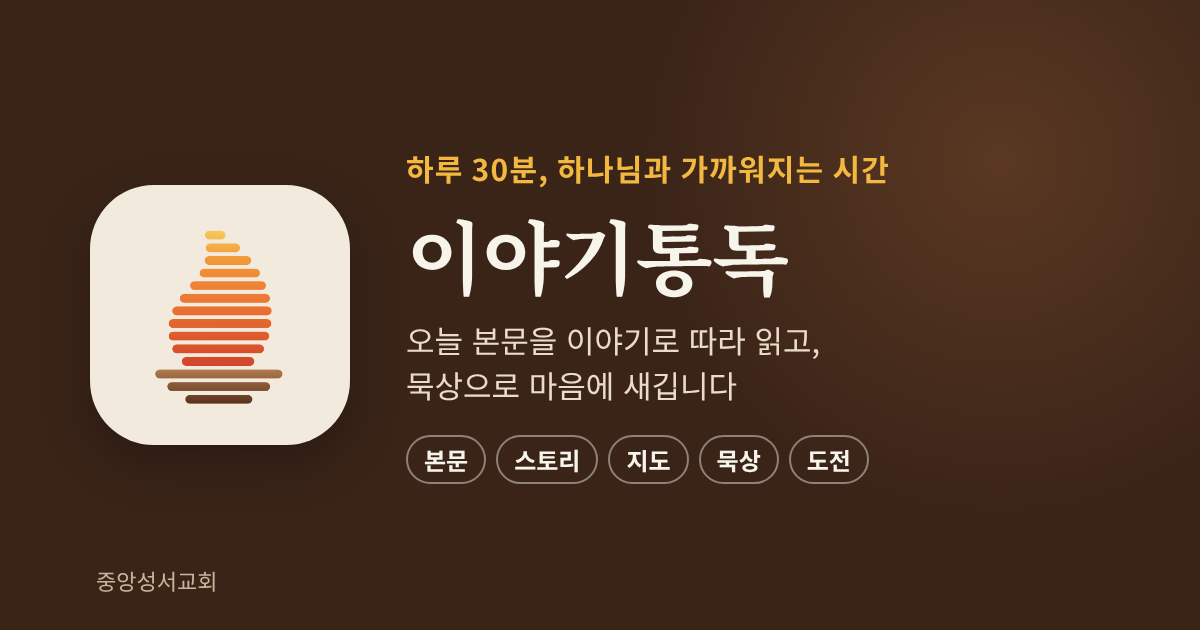
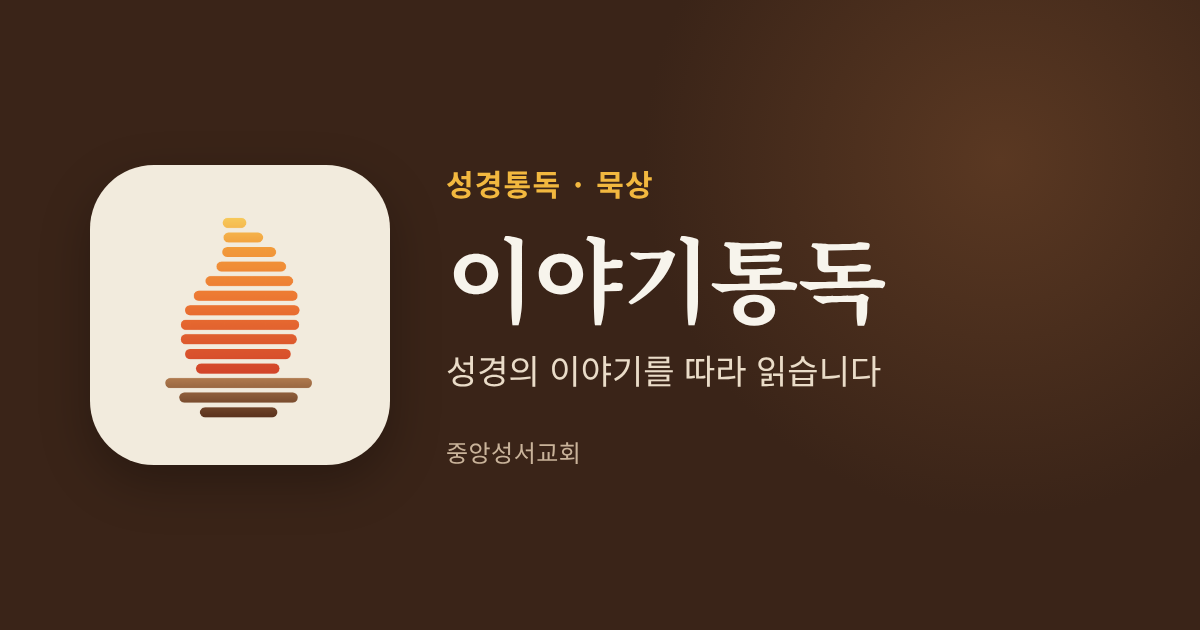
브랜드 정리(GPT 검토 반영): 링크 카드 문구 줄임(30분·기능 나열 뺌) · 링크 설명 글 새로 · 켤 때 화면의 '오늘 통독'을 그날 날짜로 · 32px 이하용 간단한 아이콘(브라우저 탭)
Claude-Session: https://claude.ai/code/session_01JDTz8YqNAERJZBJ94GhQMU

diff --git a/app/og/og.html b/app/og/og.html
@@ -3,17 +3,16 @@ html,body{margin:0}
 body{width:1200px;height:630px;background:#3A2418;position:relative;overflow:hidden;font-family:"Noto Sans CJK KR";color:#F7F4EC}
 .glow{position:absolute;right:-160px;top:-200px;width:720px;height:720px;border-radius:50%;background:radial-gradient(circle,#5A3822 0%,#3A2418 70%)}
 .wrap{position:absolute;inset:0;display:flex;align-items:center;gap:56px;padding:0 90px}
-.book{width:260px;height:260px;flex:none;border-radius:64px;box-shadow:0 18px 50px rgba(0,0,0,.28)}
+.book{width:300px;height:300px;flex:none;border-radius:64px;box-shadow:0 18px 50px rgba(0,0,0,.28)}
 .t{display:grid;gap:22px}
 .kick{font-size:30px;font-weight:700;color:#F2B83F;letter-spacing:.04em}
-h1{margin:0;font-family:"Noto Serif CJK KR";font-weight:700;font-size:80px;white-space:nowrap;line-height:1.05;letter-spacing:-.01em}
-.sub{font-size:31px;color:#EADCC8;line-height:1.45}
+h1{margin:0;font-family:"Noto Serif CJK KR";font-weight:700;font-size:92px;white-space:nowrap;line-height:1.05;letter-spacing:-.01em}
+.sub{font-size:34px;color:#EADCC8;line-height:1.45}
 .tags{display:flex;gap:10px;flex-wrap:wrap;margin-top:6px}
 .tags span{font-size:24px;font-weight:600;border:2px solid rgba(247,244,236,.45);border-radius:99px;padding:5px 16px}
-.foot{position:absolute;left:96px;bottom:34px;font-size:22px;color:#C9B39A}
+.foot{margin-top:18px;font-size:24px;color:#C9B39A;letter-spacing:.02em}
 </style></head><body><div class="glow"></div>
 <div class="wrap"><img class="book" src="icon-512.png">
-<div class="t"><div class="kick">하루 30분, 하나님과 가까워지는 시간</div><h1>이야기통독</h1>
-<div class="sub">오늘 본문을 이야기로 따라 읽고,<br>묵상으로 마음에 새깁니다</div>
-<div class="tags"><span>본문</span><span>스토리</span><span>지도</span><span>묵상</span><span>도전</span></div></div></div>
-<div class="foot">중앙성서교회</div></body></html>
+<div class="t"><div class="kick">성경통독 · 묵상</div><h1>이야기통독</h1>
+<div class="sub">성경의 이야기를 따라 읽습니다</div>
+<div class="foot">중앙성서교회</div></div></div></body></html>

diff --git a/app/build_site.py b/app/build_site.py
@@ -253,13 +253,13 @@ head=f'''<!doctype html>
 <meta charset="utf-8">
 <meta name="viewport" content="width=device-width, initial-scale=1, viewport-fit=cover">
 {title}
-<meta name="description" content="성경통독 · 오늘 본문, 요약, 지도, 퀴즈, QT">
+<meta name="description" content="성경의 이야기를 따라 읽고, 묵상으로 마음에 새깁니다">
 <meta property="og:type" content="website">
 <meta property="og:site_name" content="이야기통독">
 <meta property="og:title" content="이야기통독">
-<meta property="og:description" content="성경통독 · 오늘 본문, 요약, 지도, 퀴즈, QT">
+<meta property="og:description" content="성경의 이야기를 따라 읽고, 묵상으로 마음에 새깁니다">
 <meta property="og:url" content="https://aqedah.github.io/CBSR/">
-<meta property="og:image" content="https://aqedah.github.io/CBSR/og.png?v=8">
+<meta property="og:image" content="https://aqedah.github.io/CBSR/og.png?v=9">
 <meta property="og:image:width" content="1200">
 <meta property="og:image:height" content="630">
 <meta name="twitter:card" content="summary_large_image">
@@ -270,7 +270,8 @@ head=f'''<!doctype html>
 <meta name="apple-mobile-web-app-title" content="이야기통독">
 <link rel="manifest" href="manifest.webmanifest">
 <script>window.addEventListener("beforeinstallprompt",function(e){{e.preventDefault();window.__bip=e;}});</script>
-<link rel="icon" href="icons/icon-192.png?v=3">
+<link rel="icon" type="image/png" sizes="32x32" href="icons/favicon-32.png?v=1">
+<link rel="icon" type="image/png" sizes="192x192" href="icons/icon-192.png?v=3">
 <link rel="apple-touch-icon" href="icons/apple-touch-icon.png?v=3">
 <style>:root{{padding-top:env(safe-area-inset-top,0px);padding-bottom:env(safe-area-inset-bottom,0px)}}body{{margin:0}}img{{max-width:100%}}[hidden]{{display:none!important}}html{{-webkit-text-size-adjust:100%}}</style>
 <style>#appBoot{{position:fixed;inset:0;z-index:10000;display:flex;align-items:center;justify-content:center;background:#F8F5EF;color:#2A211B;transition:opacity .3s ease;font-family:"Gowun Batang","Nanum Myeongjo","AppleMyungjo",serif;text-align:center}}#appBoot.out{{opacity:0;pointer-events:none}}#appBoot .k{{font-family:"IBM Plex Sans KR","Apple SD Gothic Neo","Malgun Gothic",system-ui,sans-serif;font-size:12.5px;letter-spacing:.14em;color:#6E6152}}#appBoot .t{{font-weight:700;font-size:30px;margin-top:10px;color:#7A4528}}#appBoot .s{{font-size:15px;color:#6E6152;margin-top:8px}}#appBoot .bar{{width:160px;height:2px;background:#E5D9C8;margin:24px auto 0;overflow:hidden;border-radius:2px}}#appBoot .bar i{{display:block;height:100%;width:40%;background:#7A4528;animation:bootBar 1s ease-in-out infinite}}@keyframes bootBar{{from{{transform:translateX(-100%)}}to{{transform:translateX(250%)}}}}
@@ -279,7 +280,7 @@ head=f'''<!doctype html>
 @media (prefers-reduced-motion: reduce){{#appBoot .bar i{{animation:none;width:100%}}}}</style>
 </head>
 <body>
-<div id="appBoot" role="status"><div><img src="icons/icon-192.png?v=3" width="76" height="76" alt="" style="display:block;margin:0 auto 16px;border-radius:18px;box-shadow:0 4px 14px rgba(0,0,0,.12)"><div class="k">이야기통독</div><div class="t">오늘 통독</div><div class="s">이야기를 따라 읽습니다</div><div class="bar"><i></i></div></div></div>
+<div id="appBoot" role="status"><div><img src="icons/icon-192.png?v=3" width="76" height="76" alt="" style="display:block;margin:0 auto 16px;border-radius:18px;box-shadow:0 4px 14px rgba(0,0,0,.12)"><div class="k">이야기통독</div><div class="t" id="bootD">&nbsp;</div><div class="s">성경의 이야기를 따라 읽습니다</div><div class="bar"><i></i></div></div></div><script>(function(){{try{{var q=location.search.match(/[?&]now=(\d{{4}})-(\d\d)-(\d\d)/),d=q?new Date(+q[1],q[2]-1,+q[3]):new Date();document.getElementById("bootD").textContent=(d.getMonth()+1)+"월 "+d.getDate()+"일 ("+["주일","월","화","수","목","금","토"][d.getDay()]+")";}}catch(e){{}}}})();</script>
 '''
 html=head+body+'\n</body>\n</html>\n'
 # 2026-10-29 v2가 첫 화면(index.html)이 됨. v1은 v1.html로 남겨 둠(이전 화면)
